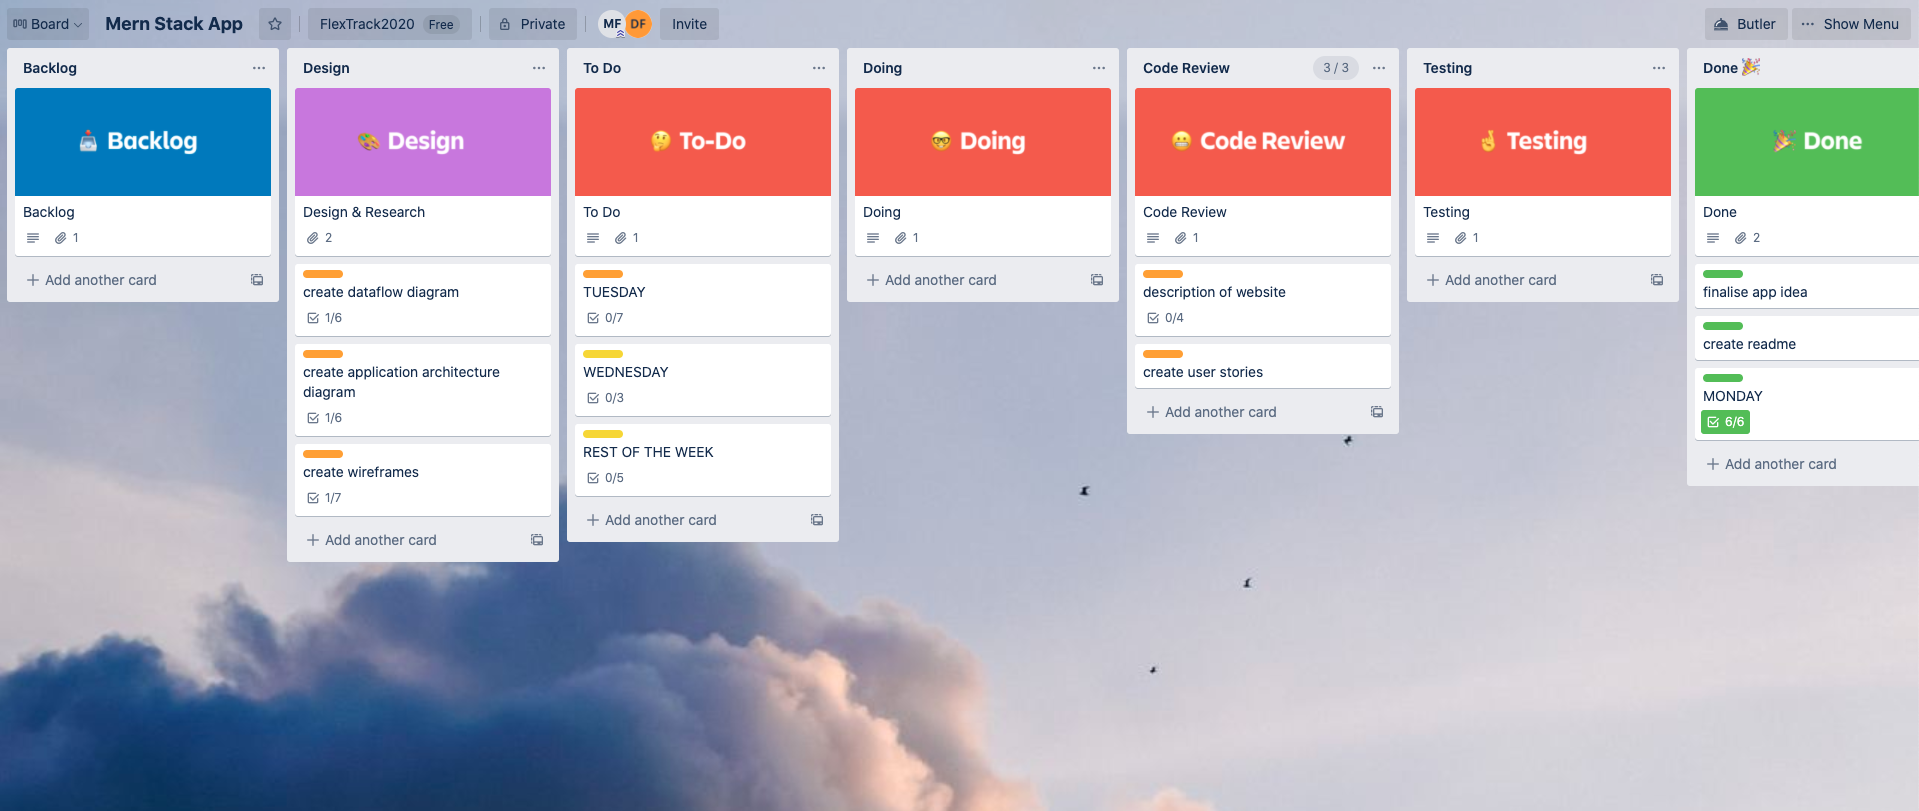
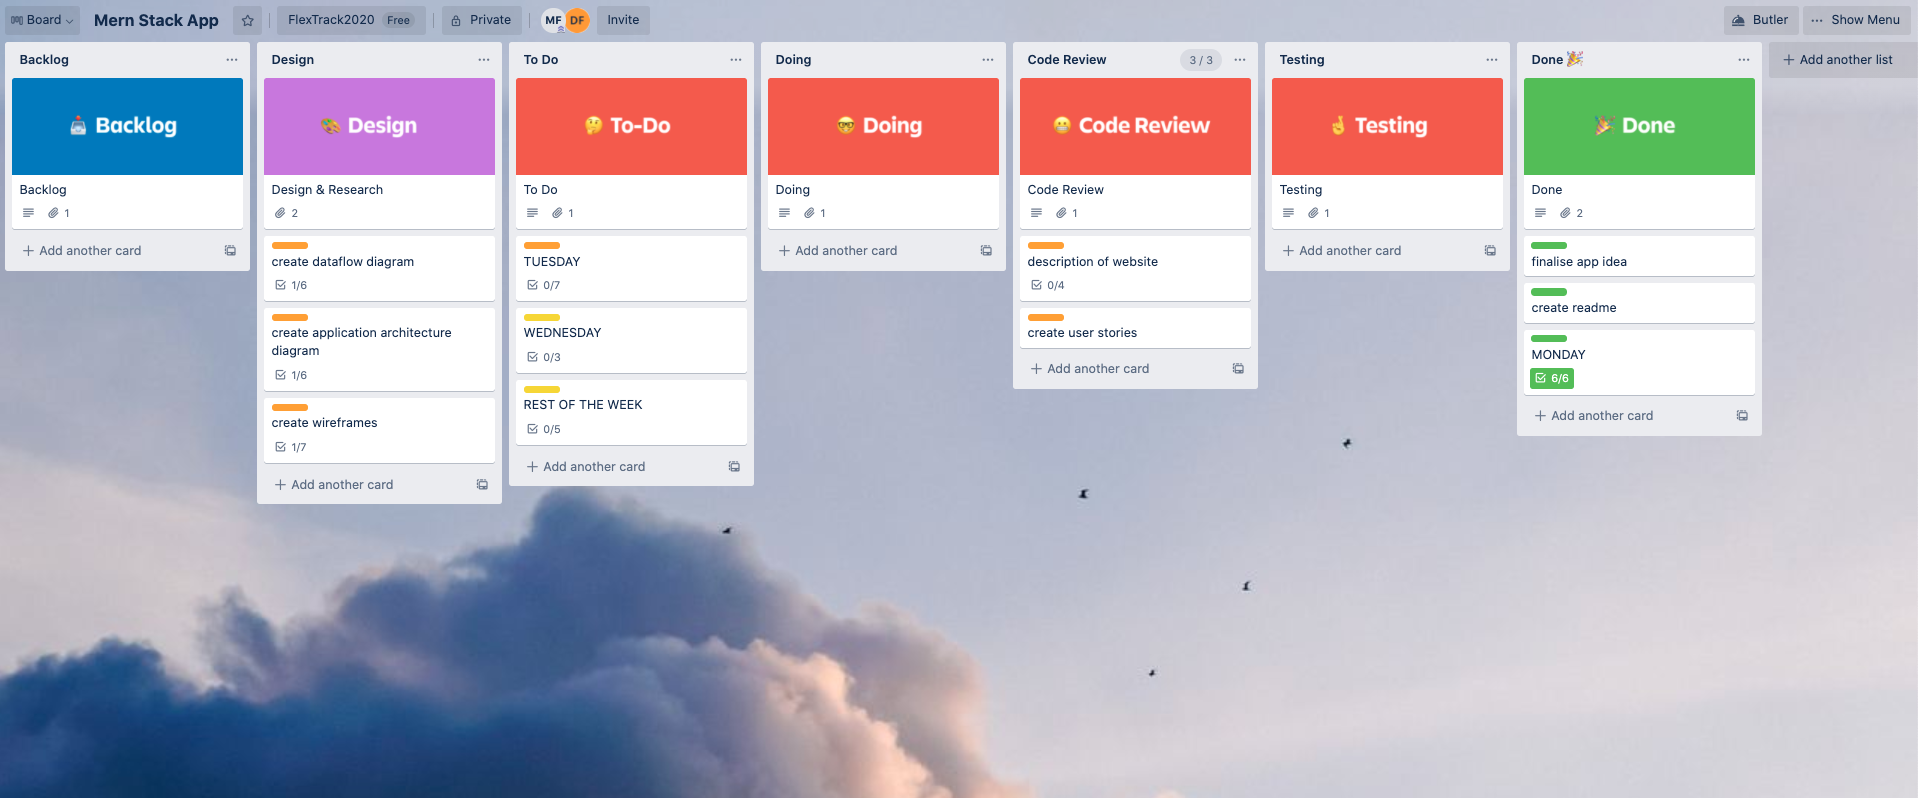
added trello screenshot

diff --git a/README.md b/README.md
@@ -210,25 +210,17 @@ Robo 3T is a useful piece of technology when working with MongoDB, as it allows 
 
 ## Trello Board
 
-##### Start of day 1: 
+#### Start of day 1: 
 
 ![trello day 1](docs/trello-screenshots/trello-day1.png)
 
 #### End of day 1:
 
-![](docs/trello-screenshots/trello-day1end.png)
-
-#### End of day 2:
-
-![]()
-
-#### End of day 3:
-
-![]()
+![end of day 1](docs/trello-screenshots/trello-day1end.png)
 
 ####  End of week 1:
 
-![]()
+![end of week 1](docs/trello-screenshots/trello-end-week1.png)
 
 #### End of week 2:
 
